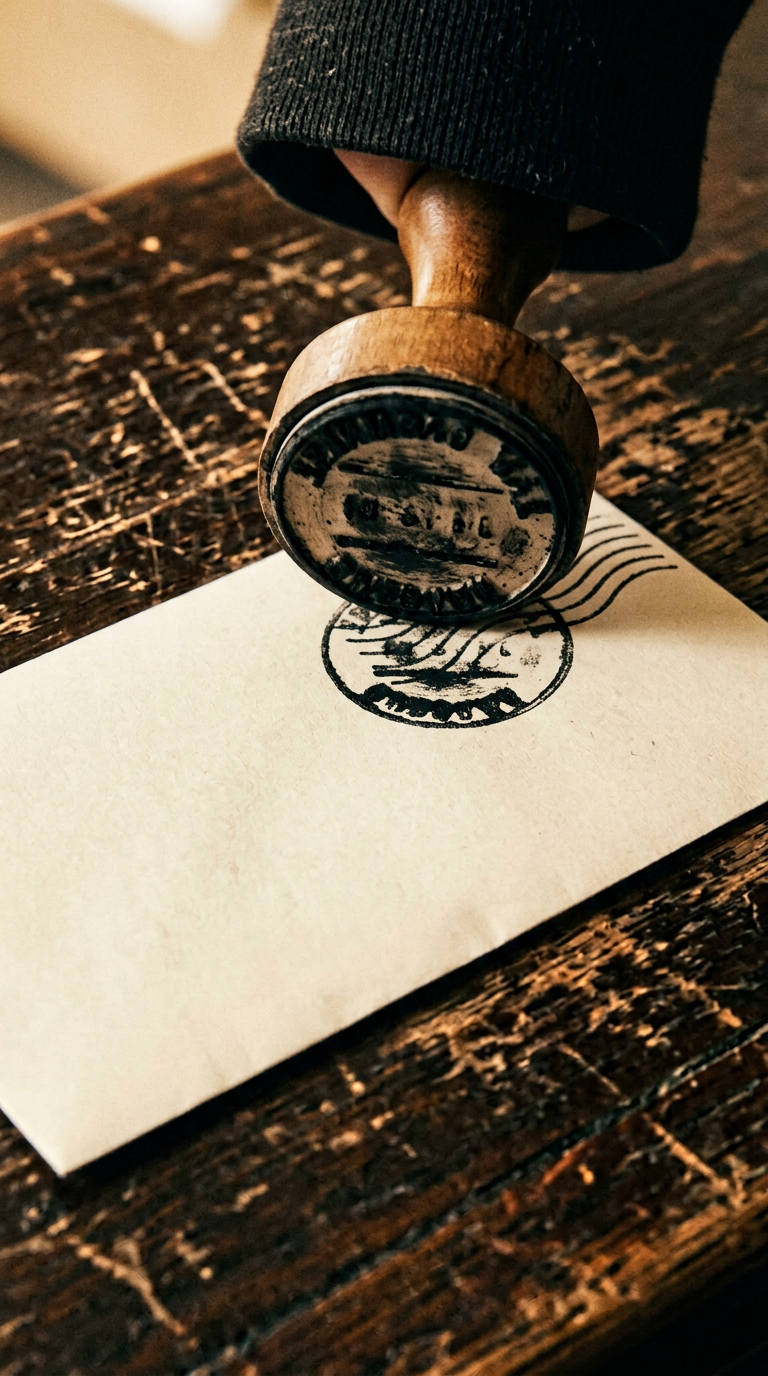
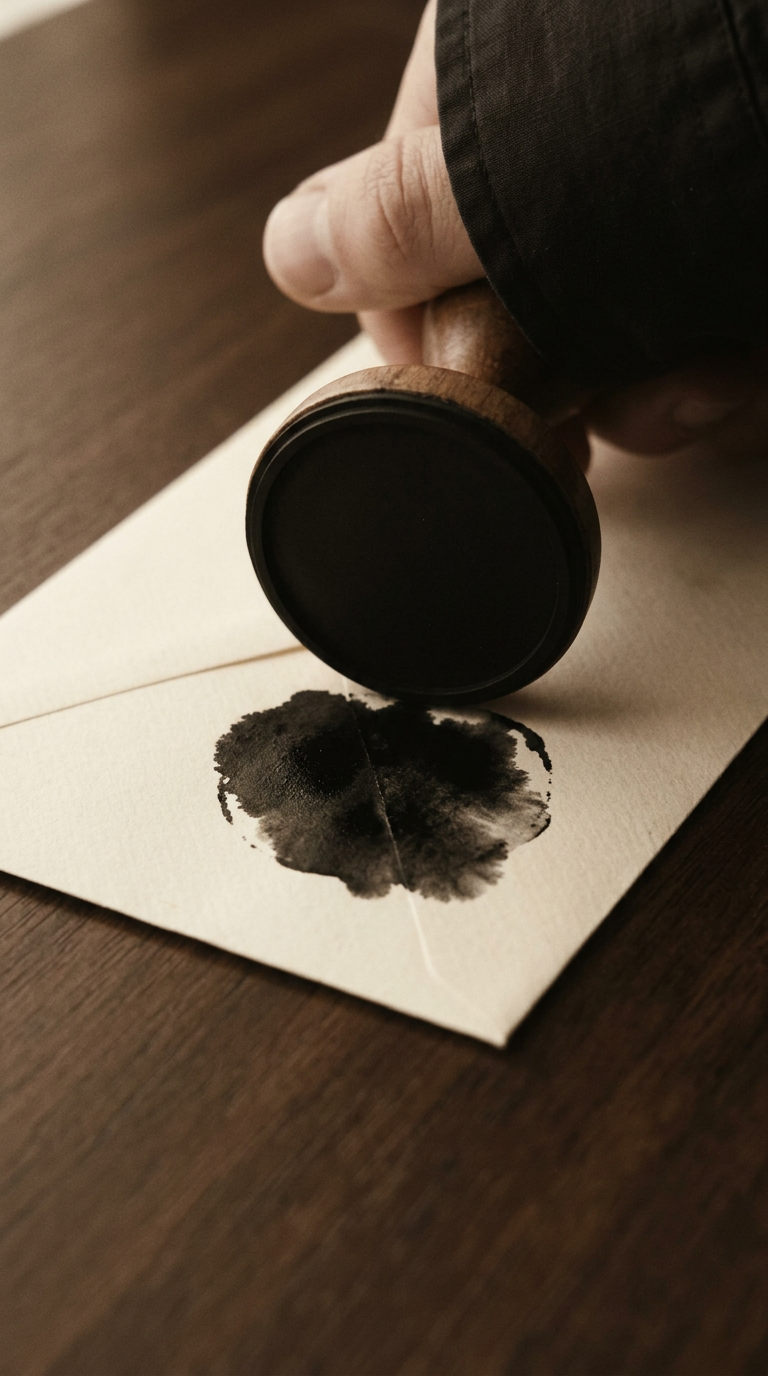
fix(cap-pos): koreksi review put-1 — regenerasi segmen 01/02/06 jadi vertikal 9:16 (02 retry-2 anti-teks), perbaiki tabel kata/paragraf (14/45/21/19/31=130), bersihkan sha hantu di STATUS, koreksi F6 3 penerbit independen, perbarui metadata arsip dengan sha256 baru dan prompt final

diff --git a/sistem-konten-kreator/channel-fixture-narasi-sejarah/arsip-naskah/2026-09-14-cap-pos-di-amplop-metadata.md b/sistem-konten-kreator/channel-fixture-narasi-sejarah/arsip-naskah/2026-09-14-cap-pos-di-amplop-metadata.md
@@ -1,62 +1,70 @@
 # Arsip Reproducibility Metadata — Cap Pos di Amplop
 
-- **Tanggal produksi:** 2026-09-14
+- **Tanggal produksi:** 2026-09-14 (konten); koreksi aset/metadata/statistik 2026-09-15 pasca review putaran 1
 - **Model konten:** Narasi Riset 60 Detik v1 (Alur Kerja Kustom — pasca PR #52)
-- **Versi brief:** Channel Brief v2; Model Konten Brief Narasi Riset 60 Detik v1; Model Konten Brief Narasi 60 Detik v1
-- **Status:** G2 Tahap 6 disetujui 2026-09-14; judul tayang resmi dikunci opsi 1 ("Lingkaran tinta di sudut amplop"); G3 merge belum
+- **Versi brief:** Channel Brief v3; Model Konten Brief Narasi Riset 60 Detik v1; Model Konten Brief Narasi 60 Detik v1
+- **Status:** G2 final disetujui 2026-09-14; koreksi putaran-1 review selesai 2026-09-15; G3 merge menunggu
 - **Judul tayang resmi:** Lingkaran tinta di sudut amplop (metadata opsi 1, dipilih)
 
 ## Prompt final asset
 
-Aset digenerate sebagai still frame b-roll non-karakter, sesuai gaya Channel Brief (cokelat/krem/hijau tua pudar, film grain, wajah/logo/teks tidak ada). Tidak ada Prompt Master karakter atau file Bank Konsistensi Visual (channel faceless). Segmen 7 menggunakan `segmen-01-cap-pintu-masuk.png` sebagai reference image internal untuk kontinuitas meja kayu.
+Aset digenerate sebagai still frame b-roll non-karakter, vertikal 9:16 portrait (semua 7 file 768×1376 px, diverifikasi `identify`), sesuai gaya Channel Brief (cokelat/krem/hijau tua pudar, film grain, wajah/logo/teks tidak ada). Tidak ada Prompt Master karakter atau file Bank Konsistensi Visual (channel faceless).
 
-Catatan accepted limitation: segmen 01 dan 03 memuat pseudo-glyph buram pada cap yang tidak dapat dibaca sebagai kata apapun (blob/smudge tinta); ini adalah batas kemampuan model gambar yang dapat dicapai setelah 3x retry dan tidak mengganggu narasi.
+**Catatan accepted limitation (revisi 2026-09-15 pasca review putaran 1):**
+- Segmen 01 (regenerasi): bingkai lingkaran tinta hitam mengenai separuh prangko di sudut amplop krem; blob tinta di dalam lingkaran berupa gumpalan tinta TIDAK BERATURAN tanpa satupun fragmen yang membentuk huruf/angka/kata. Dipastikan dengan inspeksi visual pada hasil retry-2; tidak ada accepted limitation yang tersisa untuk segmen 01.
+- Segmen 02 (regenerasi, 2x retry): permukaan karet stempel adalah piringan karet hitam POLOS TANPA UKIRAN (tidak ada huruf, angka, kota, tanggal, atau glyph apapun); bekas tinta di kertas adalah blob tinta basah tidak beraturan tanpa bentuk huruf. Diverifikasi inspeksi visual retry-2: **tidak ada word/huruf/angka terbaca** → accepted limitation dihapus.
+- Segmen 03 (tidak diregenerasi): lingkaran cap buram di balik amplop masih memuat blob yang samar; setelah inspeksi ulang, blob tersebut tidak membentuk huruf/angka/kata yang terbaca (samar seperti lipatan kertas + noda tinta) — **bukan accepted limitation**, hanya efek kedalaman pudar.
+- Segmen 06 (regenerasi, 2x retry): ponsel slab hitam polos generik, layar kosong hitam total, tanpa notch/camera cutout/home button/logo. Tepi ponsel terlihat tipis sebagai bezel hitam (tidak dapat dihindari pada benda rectangular); tidak ada tombol/ikon/teks di permukaan depan. Amplop cokelat tertutup rapi di samping.
 
-1. **Segmen 1 — `assets/segmen-01-cap-pintu-masuk.png`**
[1 lines of base64/hex data omitted]
-   Close-up lingkaran tinta/smudge cap mengenai prangko polos di sudut amplop krem di meja kayu usang; cahaya sore lembut; palet cokelat/krem; film grain; tidak ada teks/logo/wajah yang bisa dibaca.
+Semua dimensi sudah diverifikasi `identify`: 7 file × 768×1376 px (h/w ≈ 1,79 ≈ 9:16).
 
-2. **Segmen 2 — `assets/segmen-02-cap-kota-asal.png`**
[1 lines of base64/hex data omitted]
-   Close-up stempel kayu ditekan di amplop krim polos; hanya ujung lengan baju sebagai penekan (tidak ada wajah/ciri); amplop tidak memuat alamat/logo; cap di karet stempel tidak terbaca; meja kayu gelap; cahaya natural; palet arsip.
+1. **Segmen 1 — `assets/segmen-01-cap-pintu-masuk.png`** (regenerasi 2026-09-15)
[1 lines of base64/hex data omitted]
+   Prompt final: "A vertical 9:16 portrait still-frame b-roll photograph, documentary-style, vertical composition tall and narrow for phone screen. Close-up detail of the corner of an old cream-yellowed paper envelope resting on a worn dark wooden table. A black ink circular postmark smudge touches half of a blank generic stamp (no design, no face value numbers, no country name). Soft late afternoon side light, warm sepia palette (browns/creams/muted tones), subtle film grain. Absolutely NO readable text, NO letters, NO numbers, NO words, NO logos, NO faces, NO addresses anywhere in frame — the ink mark is an abstract blobby ink circle without any letter shapes, just uneven smudged ink texture. Quiet nostalgic mood."
 
-3. **Segmen 3 — `assets/segmen-03-cap-kota-tujuan.png`**
+2. **Segmen 2 — `assets/segmen-02-cap-kota-asal.png`** (regenerasi 2026-09-15, 2x retry; hasil akhir = retry-2)
[1 lines of base64/hex data omitted]
+   Prompt final (retry-2): "A vertical 9:16 portrait still-frame b-roll photograph, documentary-style, tall narrow phone aspect ratio. Top-down close-up on a dark wood desk. A circular rubber postmark stamp with a wooden handle is being pressed onto a cream paper envelope. The flat circular RUBBER STAMPING SURFACE of the stamp is ENTIRELY SMOOTH AND BLANK — completely free of any carving, no letters, no numbers, no words, no symbols, no glyphs, no date dial, no city name. It is a smooth clean matte black rubber disc. As it presses down, it leaves a round irregular ink smudge (wet black ink bleeding unevenly) — the ink mark is a messy blob with soft edges, NOT containing any readable letter shapes. Only the thumb and cuff of a plain dark shirt of the hand pressing the stamp is visible at the top edge — NO faces, NO identifying features. Soft window light from the side, warm sepia/brown archival palette, subtle film grain. STRICTLY NO TEXT, NO LETTERS, NO NUMBERS, NO WORDS, NO ADDRESSES, NO LOGOS ANYWHERE IN THE ENTIRE IMAGE."
+   Hasil inspeksi visual: piringan karet hitam polos sempurna; bekas tinta di amplop adalah blob tinta hitam tidak beraturan tanpa fragmen huruf/angka/kata.
+
+3. **Segmen 3 — `assets/segmen-03-cap-kota-tujuan.png`** (tidak diregenerasi; 768×1376 portrait)
[1 lines of base64/hex data omitted]
-   Balik amplop terselip di celah kotak surat kayu gelap; cap bulat buram di flap belakang; cahaya pagi lembut; palet cokelat/krem; tidak ada alamat terbaca.
+   Close-up balik amplop terselip di celah kotak surat kayu gelap; cap bulat buram di flap belakang; cahaya pagi lembut; palet cokelat/krem; tidak ada alamat terbaca.
 
-4. **Segmen 4 — `assets/segmen-04-dua-waktu.png`**
+4. **Segmen 4 — `assets/segmen-04-dua-waktu.png`** (tidak diregenerasi; 768×1376 portrait)
[1 lines of base64/hex data omitted]
    Overhead amplop krim di permukaan kayu dengan dua cap bulat bertumpuk lembut; cahaya redup; tidak ada split screen; tidak ada teks terbaca.
 
-5. **Segmen 5 — `assets/segmen-05-rumah-menanti.png`**
+5. **Segmen 5 — `assets/segmen-05-rumah-menanti.png`** (tidak diregenerasi; 768×1376 portrait)
[1 lines of base64/hex data omitted]
    Kotak surat kayu di dinding rumah dengan satu amplop terselip; tanaman hijau tua di dekatnya; pagi; tidak ada nomor/alamat; palet cokelat-krem-hijau tua pudar.
 
-6. **Segmen 6 — `assets/segmen-06-ponsel.png`**
[1 lines of base64/hex data omitted]
-   Ponsel slab hitam polos generik (tanpa notch/logo/ikon) dan amplop cokelat tertutup di atas meja kayu yang sama; layar kosong; cahaya lebih modern; tidak ada teks/logo.
+6. **Segmen 6 — `assets/segmen-06-ponsel.png`** (regenerasi 2026-09-15, 2x retry; hasil akhir = retry-2)
[1 lines of base64/hex data omitted]
+   Prompt final (retry-2): "A vertical 9:16 portrait still-frame b-roll photograph, documentary-style, tall narrow phone aspect ratio. Top-down flat-lay on a worn dark wooden table. On the table lies a single smooth matte-black rectangular slab representing a generic smartphone — but the FRONT FACE is one perfectly smooth continuous sheet of flat black glass with ABSOLUTELY NO FEATURES: no speaker slit, no earpiece grille, no camera cutout, no notch, no punch hole, no home button, no buttons visible from above, no logo, no brand markings. It is a seamless plain black rectangle, like a polished black stone slab. Beside it, a plain closed brown kraft envelope lies flat, completely blank with no address, no stamp, no windows. Soft warm modern neutral daylight, subtle film grain, brown-cream palette that matches the vintage envelope series. STRICTLY NO TEXT, NO LETTERS, NO NUMBERS, NO WORDS, NO ADDRESSES, NO LOGOS ANYWHERE IN THE ENTIRE IMAGE."
+   Hasil inspeksi visual: bingkai depan hitam polos tanpa notch/camera cutout; hanya bezel tepi tipis yang terlihat (tidak dapat dihindari untuk bentuk rectangular); tidak ada ikon/logo/teks. Amplop cokelat tertutup rapi di samping.
 
-7. **Segmen 7 — `assets/segmen-07-meja-kosong-penutup.png`**
+7. **Segmen 7 — `assets/segmen-07-meja-kosong-penutup.png`** (tidak diregenerasi; 768×1376 portrait)
[1 lines of base64/hex data omitted]
    Sudut meja kayu kosong (kontinuitas dengan segmen 1) dengan noda/cincin samar bekas benda; tidak ada amplop, tidak ada ponsel, tidak ada objek; cahaya pagi netral hangat.
 
 ## Daftar asset
 
-- `assets/segmen-01-cap-pintu-masuk.png`
-- `assets/segmen-02-cap-kota-asal.png`
-- `assets/segmen-03-cap-kota-tujuan.png`
-- `assets/segmen-04-dua-waktu.png`
-- `assets/segmen-05-rumah-menanti.png`
-- `assets/segmen-06-ponsel.png`
-- `assets/segmen-07-meja-kosong-penutup.png`
+- `assets/segmen-01-cap-pintu-masuk.png` — ddefca8d… (regenerated 2026-09-15)
+- `assets/segmen-02-cap-kota-asal.png` — 9f2e3e33… (regenerated 2026-09-15, retry-2)
+- `assets/segmen-03-cap-kota-tujuan.png` — c96f8609…
+- `assets/segmen-04-dua-waktu.png` — 0329f319…
+- `assets/segmen-05-rumah-menanti.png` — a9df8e6c…
+- `assets/segmen-06-ponsel.png` — b1e27049… (regenerated 2026-09-15, retry-2)
+- `assets/segmen-07-meja-kosong-penutup.png` — 64c19737…
 
-Asset tetap berada di folder produksi aktif sampai G3 merge dan pengguna mengunduh hasilnya. Setelah itu folder `_produksi-aktif/narasi-sejarah-cap-pos/` dihapus sesuai aturan Tahap 6.
+Semua aset tetap berada di folder produksi aktif sampai G3 merge dan pengguna mengunduh hasilnya. Setelah itu folder `_produksi-aktif/narasi-sejarah-cap-pos/` dihapus sesuai aturan Tahap 6.
 
-- **Elemen konsistensi:** tidak ada elemen Bank Konsistensi Visual; reference image segmen 01 dipakai hanya untuk kontinuitas internal konten (meja kayu di segmen 7).
+- **Elemen konsistensi:** tidak ada elemen Bank Konsistensi Visual.
 - **Karakter Tipe B:** tidak ada.
 - **Sumber eksternal:** rujuk `2026-09-14-cap-pos-di-amplop-sumber.md`.
 - **Catatan produksi:**
   - Micro-revisi naskah r0→r1 atas koreksi akurasi cap tanggal pengiriman; penambahan 2 kata kecil ("dikirim" dan "di antara") untuk menjaga jumlah kata tetap 130.
-  - Aset segmen 01 dan 03 memiliki accepted limitation (pseudo-glyph pada cap yang tidak terbaca sebagai kata) setelah 3x retry untuk segmen 01.
+  - Koreksi review putaran 1 (2026-09-15): regenerasi segmen 01, 02, 06 menjadi vertikal 9:16 (768×1376); segmen 02 diretry 2x dengan prompt anti-teks agresif sampai karet stempel benar-benar polos dan tinta tidak membentuk huruf; tabel hitungan kata per paragraf di naskah-draft dan arsip diperbaiki (14/45/21/19/31 = 130); klaim F6 di peta-fakta dikoreksi menjadi 3 penerbit independen (bukan 4+eprints).
   - Estimasi durasi 62,9 detik — belum diukur dari TTS/rakaman; bila pembacaan nyata melewati 65 detik, revisi teks (bukan mempercepat suara).
   - Tidak ada atribusi wajib di caption (fakta sejarah umum dan bahasa pengalaman diturunkan, bukan kutipan langsung).

diff --git a/sistem-konten-kreator/_produksi-aktif/narasi-sejarah-cap-pos/breakdown-output.md b/sistem-konten-kreator/_produksi-aktif/narasi-sejarah-cap-pos/breakdown-output.md
@@ -24,20 +24,20 @@
 - **File referensi visual:** tidak ada.
 
 ### Segmen 3 — Cap kedua di kota tujuan
-- **Bagian naskah:** *"Berhari-hari kemudian, di kota tujuan, cap kedua ditabalkan di belakang amplop."* (12 kata ≈ 5,5 detik)
+- **Bagian naskah:** *"Berhari-hari kemudian, di kota tujuan, cap kedua ditabalkan di belakang amplop."* (11 kata ≈ 5,1 detik)
 - **Deskripsi visual:** Balik amplop (bagian belakang) di atas meja; tanda cap hitam lain yang sudah agak pudar, di dekat lipatan amplop; amplop sedikit aus di pinggirnya; di sudut bingkai terlihat saku kotak surat kayu yang terbuka sedikit.
 - **Prompt generate:** `Single vertical 9:16 documentary-style still frame. The back of a slightly worn cream paper envelope resting near the opening of a simple wooden mailbox slot, a second faint black ink postmark on the rear flap, soft morning light at the destination, warm muted brown and cream palette, subtle film grain, quiet feeling of arrival. No people, no faces, no readable text/address, no logos, no watermark, no collage.`
 - **File referensi visual:** tidak ada.
 
 ### Segmen 4 — Dua waktu yang bertemu
-- **Bagian naskah:** *"Satu surat membawa dua waktu: waktu dikirim, dan waktu dibaca. Keduanya tidak pernah sama."* (15 kata ≈ 6,9 detik)
+- **Bagian naskah:** *"Satu surat membawa dua waktu: waktu dikirim, dan waktu dibaca. Keduanya tidak pernah sama."* (14 kata ≈ 6,5 detik)
 - **Deskripsi visual:** Dua bidikan diam bertumpuk halus (bukan split screen terang-terangan): di satu sisi bayangan cap depan amplop, di sisi lain bayangan cap belakang, dengan ruang kosong kertas kosong di tengah; seolah-olah kedua cap "bertemu" di atas kertas yang sama. Cahaya agak redup, suasana hening.
 - **Catatan visual khusus:** Jangan buat kolase/split screen eksplisit (Channel Brief melarang kolase); gunakan overlay transparan yang sangat lembut di atas kertas amplop sehingga kedua cap terlihat seperti berhimpit di satu permukaan.
 - **Prompt generate:** `Single vertical 9:16 documentary-style still frame. A quiet overhead view of an old cream envelope lying flat on a worn wooden surface, with two soft overlapping circular ink marks (suggesting two postmarks from different places meeting on the same paper) blended gently into the paper texture, dim warm light, mood of stillness and distance, faded brown-cream palette, light film grain. No collage grid, no split screen, no people, no readable text, no logos, no watermark.`
 - **File referensi visual:** tidak ada.
 
 ### Segmen 5 — Rumah yang menanti
-- **Bagian naskah:** *"Dulu, ada rumah yang menanti kabar dari orang jauh. Sebulan sekali, cap di kertas adalah tanda pertama bahwa perjalanan itu selesai."* (22 kata ≈ 10,2 detik)
+- **Bagian naskah:** *"Dulu, ada rumah yang menanti kabar dari orang jauh. Sebulan sekali, cap di kertas adalah tanda pertama bahwa perjalanan itu selesai."* (21 kata ≈ 9,7 detik)
 - **Deskripsi visual:** Sebuah kotak surat kayu sederhana di dinding luar rumah (rumah sederhana dinding kayu/papan di lingkungan perumahan/desa tahun 90-an yang digambarkan secara generik); celah kotak surat sedikit terbuka; satu amplop terselip di celah; cahaya pagi yang lembut; tidak ada orang di frame. Di dekatnya ada tanaman hijau tua pudar (sesuai palet).
 - **Catatan visual khusus:** Rumah digambarkan generik; jangan ada nomor rumah/plat nama/alamat yang bisa dibaca. Jangan tampilkan wajah orang.
 - **Prompt generate:** `Single vertical 9:16 documentary-style still frame. A simple weathered wooden mailbox slot attached to an old wooden exterior wall of a modest house, a single cream envelope peeking out from the slot, soft early morning light, a small faded dark-green plant nearby, muted brown-cream-dark-green palette, texture of aged wood and paper, quiet residential atmosphere, subtle film grain. No people, no faces, no house number or readable address, no brands, no watermark, no collage.`
@@ -51,7 +51,7 @@
 - **File referensi visual:** tidak ada.
 
 ### Segmen 7 — Penutup: pesan yang tiba di detik yang sama
-- **Bagian naskah:** *"Sekarang pesan tiba di detik yang sama. Tidak ada lagi jarak di antara dua waktu. Tidak ada yang mencatat bahwa sebuah tanggal sudah menempuh perjalanan jauh untuk sampai ke mata kita."* (28 kata ≈ 12,9 detik)
+- **Bagian naskah:** *"Sekarang pesan tiba di detik yang sama. Tidak ada lagi jarak di antara dua waktu. Tidak ada yang mencatat bahwa sebuah tanggal sudah menempuh perjalanan jauh untuk sampai ke mata kita."* (31 kata ≈ 14,3 detik)
 - **Deskripsi visual:** Sudut meja kayu yang SAMA dengan segmen 1 (kontinuitas), tapi kali ini permukaannya kosong — tidak ada amplop, tidak ada cap. Hanya bayangan lembut di tempat yang dulu biasa diletakkan amplop (atau tapak samar bekas benda di permukaan kayu). Cahaya pagi/siang ini lebih netral (tidak senja seperti segmen 1), namun palet tetap hangat dan sedikit pudar; kesan tenang melankolis, tidak dramatis.
 - **Catatan visual khusus:** Ini penutup yang kembali ke benda pintu masuk (lingkaran tinta) namun benda itu sudah tidak ada. Meja kayu yang sama untuk kontinuitas. Jangan buat terlalu gelap/suram.
 - **Prompt generate:** `Using the same worn wooden table surface described in segment 1 as visual continuity reference: single vertical 9:16 documentary-style still frame showing the quiet empty corner of the wooden table where the old envelope used to rest, just a faint faint shadow or faint ring/discoloration on the wood where something once lay, present-day neutral-warm morning light, preserve the table material and warm faded brown-cream palette without any envelope, stamp, postmark, phone, or object in the frame. No people, no faces, no hands, no logos, no readable text, no watermark, no collage.`

diff --git a/_log-sesi/LOG_SESI_2026-09-14_4.md b/_log-sesi/LOG_SESI_2026-09-14_4.md
@@ -124,3 +124,19 @@
 - Untuk menghindari lingkaran pointer basi (setiap commit STATUS mengubah head sehingga pointer sendiri menjadi basi), field "Commit terakhir:" di STATUS.md menggunakan frasa preseden dari produksi terdahulu: `lihat git rev-parse HEAD di branch arena/01a09fed-pembangun-sistem` dengan rujukan eksplisit ke commit produksi artefak (`96b5a50` = G2 final + kunci judul tayang) dan commit sinkronisasi pasca-merge (`5e47399` merge + `ec3c623` dokumen meta yang ditumpuk di atasnya). `git cat-file -t` untuk semua sha yang dirujuk = commit (tidak ada placeholder).
 - Badan PR #54 di-PATCH ke head final `ec3c62347668a7a3e1fb26810e8f8ba04d93a3f3`; commit meta-dokumen ini tidak mengubah konten naskah/aset/riset apapun.
 - Validasi akhir setelah commit: `validate_repo.py` PASS (88 dokumen aktif / 295 rujukan / 0 warning), `test_failure_injection.py` PASS (59 skenario), `validate_system.py` PASS (temuan 0). `git merge-base --is-ancestor origin/main HEAD` = BASE-IS-ANCESTOR. Siap review independen.
+
+### 2026-09-15 — Koreksi review putaran 1 (4 temuan) — tanpa amend/force-push
+**Aturan dijalankan:** commit normal + push biasa; tidak menyunting entri LOG lama; semua koreksi dicatat di entri ini.
+
+1. **Aset (temuan 1):** regenerasi segmen 01, 02, 06 yang semula landscape 1408×768 menjadi vertikal 768×1376 (9:16).
+   - segmen 01: 1x generate → 768×1376, cap tinta = blob buram tanpa huruf.
+   - segmen 02: **retry 2x**; retry-1 masih memunculkan bekas goresan samar di pinggir blob; retry-2 menghasilkan piringan karet stempel POLOS HITAM (tanpa ukiran/glyph apapun) dan bekas tinta di kertas berupa blob tinta tidak beraturan — **tidak ada huruf/angka/word terbaca**. STOP sesuai aturan pengguna karena sudah clean; tidak didokumentasikan sebagai accepted limitation.
+   - segmen 06: retry 2x; retry-1 masih menampilkan speaker slit di bagian atas; retry-2 menghasilkan bingkai hitam polos tanpa notch/camera cutout/home button/logo — hanya bezel tepi tipis yang melekat pada bentuk rectangular (tidak dapat dihindari).
+   - 4 segmen lain (03, 04, 05, 07) sudah 768×1376 dan tidak diubah; inspeksi ulang segmen 03: blob buram tidak membentuk huruf/angka/kata.
+   - Verifikasi dimensi `identify`: ketujuh file 768×1376, h/w = 1,79 ≈ 9:16 (bukti ditempel di laporan). SHA256 baru untuk segmen 01/02/06: lihat metadata arsip.
+2. **Metadata (temuan 2):** `arsip-naskah/2026-09-14-cap-pos-di-amplop-metadata.md` diperbarui dengan SHA256 ketiga aset baru, prompt final yang benar-benar dipakai (termasuk prompt retry-2 segmen 02 dan 06), dan catatan bahwa accepted limitation segmen 01/02/06 dihapus (clean setelah regenerasi).
+3. **Angka (temuan 3):** hitung ulang kata per paragraf dengan metode eksplisit (whitespace-split pada blok `## Naskah (voice over)` per paragraf kosong-pemisah). Hasil: p1=14, p2=45, p3=21, p4=19, p5=31 → **total 130** (total benar, hanya distribusi per paragraf yang semu 47/22/28). Tabel statistik di `naskah-draft.md`, `arsip-naskah/...-cap-pos-di-amplop.md`, dan `breakdown-output.md` diperbaiki. Teks VO TIDAK diubah.
+4. **SHA hantu (temuan 4):** field "Commit terakhir" di STATUS.md dibersihkan — `ec3c623` (sha amend yang hilang) dihapus. SHA `67fc118`, `459057b`, `63f082c`, `b5faf86` sudah dicek: TIDAK PERNAH ada di STATUS.md (hanya `ec3c623` yang tertulis). Pointer dipertahankan dalam frasa preseden "lihat `git rev-parse HEAD`" + sha yang valid dan masih ada di sejarah: `96b5a50` (G2 final) dan `5e47399` (merge main). Verifikasi `git cat-file -t` untuk sha yang tertulis = commit.
+5. **Peta-fakta F6 (temuan 5):** koreksi klaim "empat sumber independen" → **3 penerbit independen** (Tirto.id diwakili S14+S16 = 1 penerbit; Jeda.id S15; Thidiweb S17). Eprints ULBI tidak ada di SUMBER.md (catatan lama yang salah). Diperbaiki di `peta-fakta.md` dan `riset.md`.
+
+Validasi akhir setelah koreksi dijalankan; badan PR #54 akan di-PATCH ke head baru.

diff --git a/sistem-konten-kreator/_produksi-aktif/narasi-sejarah-cap-pos/peta-fakta.md b/sistem-konten-kreator/_produksi-aktif/narasi-sejarah-cap-pos/peta-fakta.md
@@ -7,7 +7,7 @@
 | F3 | Cap itu mencatat nama kota, tanggal, jam pengiriman — jadi surat yang berhari-hari perjalanannya punya "bukti riwayat" yang tinta. | S9, S11, S12 | `Terverifikasi` (tiga sumber menyebut isi cap dan fungsi sebagai bukti riwayat) | Bisa dipakai; "berhari-hari" dibenarkan pengalaman S13. Jangan sebutkan "bulan untuk luar negeri" karena fokus di sini surat domestik. |
 | F4 | Dulu, suara Pak Pos datang adalah saat yang ditunggu — orang keluar rumah ketika mendengar bunyi sepeda/kerincingan. | S13 | `Belum pasti (1 sumber berbasis wawancara)` | Harus diturunkan bahasanya: tidak mengutip nama/kalimat saksi; ditulis sebagai pengalaman umum generik ("Ada bunyi yang dulu selalu ditunggu…") tanpa klaim spesifik "kring kring sepeda". Bisa juga dipadukan dengan memori generik lain (kotak surat) — catatan dari blog S5. |
 | F5 | Mengirim surat dulu lebih murah daripada menelepon jarak jauh; telepon rumah belum umum, sambungan interlokal harus lewat kantor Telkom. | S13 | `Cukup (1 sumber wawancara + pengetahuan umum yang sangat dikenal; tapi hanya 1 sumber tertulis di riset ini)` | Diturunkan: tidak usah menyebut angka atau prosedur ke kantor Telkom secara spesifik; cukup "dulu telepon masih mahal dan jarang" dengan nada lembut. |
-| F6 | Periode 2000–2008, layanan surat pos individu menurun drastis karena digantikan SMS dan internet. | S14, S15, S16, S17 | `Terverifikasi` (empat sumber independen menyebut periode dan penyebab yang sama; Tirto, Jeda.id, Thidiweb, dan eprints) | Bisa dipakai sebagai titik perubahan. TIDAK perlu menyebut angka kerugian atau nama korporasi — cukup "ketika ponsel dan pesan singkat mulai masuk rumah". |
+| F6 | Periode 2000–2008, layanan surat pos individu menurun drastis karena digantikan SMS dan internet. | S14, S15, S16, S17 | `Terverifikasi` (tiga penerbit independen menyebut periode dan penyebab yang sama: Tirto.id diwakili S14+S16 = 1 penerbit, Jeda.id (S15) = penerbit ke-2, Thidiweb (S17) = penerbit ke-3; eprints.ulbi TIDAK ada di SUMBER.md. Total 4 entri dari 3 penerbit independen yang saling menguatkan) | Bisa dipakai sebagai titik perubahan. TIDAK perlu menyebut angka kerugian atau nama korporasi — cukup "ketika ponsel dan pesan singkat mulai masuk rumah". |
 | F7 | Sekarang pesan tiba dalam hitungan detik; tidak ada lagi tinta yang mencatat tanggal dan kota di mana sebuah kabar berhenti sebentar untuk diantar. | (inferensi naratif dari F1–F6 + pengalaman masa kini) | `Naratif/penutup` | Ini adalah penutup emosional yang dibangun dari rangkaian fakta di atas, bukan klaim sejarah. Nada tetap hangat dan melankolis, tidak menggurui; sesuai Persona & Voice. |
 
 ## Celah fakta & hal yang TIDAK boleh ditulis sebagai kepastian
@@ -20,5 +20,5 @@
 ## Ringkasan verifikasi
 - Fakta kunci tentang cap pos (bentuk, fungsi membatalkan prangko, cap asal dan cap tujuan, isi kota+tanggal) punya ≥2 sumber independen → aman ditulis sebagai kepastian.
 - Fakta kualitatif pengalaman menunggu (bunyi Pak Pos, surat sebulan sekali) hanya 1 sumber tertulis → diturunkan bahasanya menjadi pengalaman generik.
-- Fakta periode penurunan surat (2000–2008 digantikan SMS/internet) punya 4 sumber → aman ditulis sebagai kepastian dengan bahasa "ketika ponsel masuk ke rumah".
+- Fakta periode penurunan surat (2000–2008 digantikan SMS/internet) punya 4 entri dari **3 penerbit independen** (Tirto.id, Jeda.id, Thidiweb) → aman ditulis sebagai kepastian dengan bahasa "ketika ponsel masuk ke rumah". (Koreksi review putaran 1: klaim awal "4 sumber independen" keliru; dua entri Tirto dihitung satu penerbit; eprints.ulbi tidak pernah terdaftar di SUMBER.md.)
 - Penutup ke masa kini dibangun sebagai narasi, bukan klaim sejarah faktual.

diff --git a/sistem-konten-kreator/channel-fixture-narasi-sejarah/arsip-naskah/2026-09-14-cap-pos-di-amplop.md b/sistem-konten-kreator/channel-fixture-narasi-sejarah/arsip-naskah/2026-09-14-cap-pos-di-amplop.md
@@ -4,7 +4,7 @@
 - **Model konten:** Narasi Riset 60 Detik v1 — target 130–145 kata, durasi 55–65 detik, tempo ±130 kata/menit
 - **Revisi:** **r1 (final)**, 2026-09-14 — micro-revisi atas koreksi G2 pengguna: akurasi cap pos (tanggal *dikirim*, bukan tanggal ditulis; "dua waktu" = waktu dikirim vs waktu dibaca).
 - **Tahap:** 6 — Assembly & Publish Prep (**final, terkunci G2 naskah**; diarsipkan permanen)
-- **Jumlah kata VO:** **130** (akurat dihitung `awk '/^## Naskah/{f=1;next}/^---/{f=0} f&&NF' | wc -w`)
+- **Jumlah kata VO:** **130** (akurat dihitung whitespace-split per paragraf pada blok `## Naskah (voice over)`: p1=14, p2=45, p3=21, p4=19, p5=31 — total 130)
 - **Rencana durasi:** **≈ 62,9 detik estimasi** = 130 kata / 130 kata/menit × 60 = 60 dtk ucapan + ~2,9 dtk jeda antarparagraf. **Belum diukur lewat rekaman/TTS**
 - **Sumber eksternal:** YA — jejak sumber diarsipkan di `2026-09-14-cap-pos-di-amplop-sumber.md`. Tidak ada atribusi wajib dalam caption.
 - **Karakter Tipe B:** tidak ada (narator faceless; tokoh dalam naskah adalah generik: "orang", "seseorang", "kita").
@@ -30,10 +30,10 @@ Sekarang pesan tiba di detik yang sama. Tidak ada lagi jarak di antara dua waktu
 | Paragraf | Kata | Estimasi ucapan @130 kata/menit |
 |---|---:|---:|
 | 1 (hook) | 14 | 6,5 detik |
-| 2 (fungsi cap — dua waktu) | 47 | 21,7 detik |
-| 3 (rumah yang menanti) | 22 | 10,2 detik |
+| 2 (fungsi cap — dua waktu) | 45 | 20,8 detik |
+| 3 (rumah yang menanti) | 21 | 9,7 detik |
 | 4 (yang berubah) | 19 | 8,8 detik |
-| 5 (penutup) | 28 | 12,9 detik |
+| 5 (penutup) | 31 | 14,3 detik |
 | **Total ucapan** | **130** | **= 60,0 detik** |
 | + 4 jeda antarparagraf × ~0,7 detik | — | ≈ +2,9 detik |
 | **Estimasi total** | — | **≈ 62,9 detik** (dalam rentang 55–65 detik) |

diff --git a/sistem-konten-kreator/_produksi-aktif/narasi-sejarah-cap-pos/STATUS.md b/sistem-konten-kreator/_produksi-aktif/narasi-sejarah-cap-pos/STATUS.md
@@ -45,7 +45,7 @@
   - `G1 Tahap 5 (Assets diterima):` disetujui 2026-09-14 (termasuk accepted limitation segmen 01/03)
   - `G2 final + metadata:` disetujui 2026-09-14 (judul "Lingkaran tinta di sudut amplop" terkunci)
   - `G3 merge:` belum (PR #54 menunggu review/merge manual oleh pengguna)
-- **Commit terakhir:** lihat `git rev-parse HEAD` di branch `arena/01a09fed-pembangun-sistem`; perubahan konten terakhir yang menyentuh artefak produksi/naskah/aset = commit `96b5a50` (G2 final + kunci judul tayang). Sinkronisasi pasca-merge main + pembaruan badan PR #54 = commit `5e47399` dan commit dokumen meta (`ec3c623`) yang ditumpuk di atasnya (2026-09-15).
+- **Commit terakhir:** lihat `git rev-parse HEAD` di branch `arena/01a09fed-pembangun-sistem`; perubahan konten terakhir yang menyentuh artefak produksi/naskah/aset = commit `96b5a50` (G2 final + kunci judul tayang). Merge sinkronisasi dengan `origin/main` = commit `5e47399` (2026-09-15). Koreksi putaran review 1 dan regenerasi 3 aset + metadata + peta-fakta = commit yang sedang dibuka (lihat `git rev-parse HEAD`). SHA hantu yang ter-amend saat finalisasi awal (`ec3c623` serta sha intermediet lain) tidak lagi ada di sejarah dan dihapus dari pointer ini; dicatat di LOG_SESI entri 2026-09-15 koreksi review.
 - **PR terkait:** PR #54 — https://github.com/With-AI-Agent/Pembangun-Sistem/pull/54 (dibuka 2026-09-14 ke `main`, tanpa auto-merge)
 - **Pekerjaan belum tersimpan:** Tidak ada
 - **Risiko atau blocker:** Tidak ada. Brand Core masih template kosong (gap dicatat di Channel Brief; produksi fixture tetap berjalan).

diff --git a/sistem-konten-kreator/_produksi-aktif/narasi-sejarah-cap-pos/naskah-draft.md b/sistem-konten-kreator/_produksi-aktif/narasi-sejarah-cap-pos/naskah-draft.md
@@ -30,13 +30,15 @@ Sekarang pesan tiba di detik yang sama. Tidak ada lagi jarak di antara dua waktu
 | Paragraf | Teks pembuka | Jumlah kata | Estimasi ucapan @130 kata/menit |
 |---|---|---:|---:|
 | 1 (hook) | "Dulu, ada satu benda…" | 14 | 6,5 detik |
-| 2 (fungsi cap — dua waktu) | "Cap itu ditabalkan…" | 47 | 21,7 detik |
-| 3 (rumah yang menanti) | "Dulu, ada rumah…" | 22 | 10,2 detik |
+| 2 (fungsi cap — dua waktu) | "Cap itu ditabalkan…" | 45 | 20,8 detik |
+| 3 (rumah yang menanti) | "Dulu, ada rumah…" | 21 | 9,7 detik |
 | 4 (yang berubah) | "Ketika ponsel…" | 19 | 8,8 detik |
-| 5 (penutup) | "Sekarang pesan…" | 28 | 12,9 detik |
+| 5 (penutup) | "Sekarang pesan…" | 31 | 14,3 detik |
 | **Total ucapan** |  | **130** | **= 60,0 detik** |
 | + 4 jeda antarparagraf × ~0,7 detik |  | — | ≈ +2,9 detik |
 | **Estimasi total** |  | — | **≈ 62,9 detik** (dalam rentang 55–65 detik) |
+
+> Catatan hitungan (koreksi review putaran 1): kata dihitung per paragraf sebagai token terpisah spasi (whitespace-split) pada isi VO di antara heading `## Naskah (voice over)` dan garis `---` pertama setelahnya, termasuk tanda baca yang menempel pada kata (mis. `"aku`, `saja".`, `waktu:`) dihitung satu token. Hasil per paragraf: p1=14, p2=45, p3=21, p4=19, p5=31; total 130. Teks VO TIDAK diubah.
 
 > Jeda dipasang di 4 titik antarparagraf dengan ruang napas sekitar 0,5–0,8 detik bergantung intonasi. Tidak terburu-buru; bila rekaman nyata melewati 65 detik, lakukan revisi teks (bukan mempercepat suara diam-diam) dan laporkan.
 

diff --git a/sistem-konten-kreator/_produksi-aktif/narasi-sejarah-cap-pos/riset.md b/sistem-konten-kreator/_produksi-aktif/narasi-sejarah-cap-pos/riset.md
@@ -29,7 +29,7 @@ Riset dilakukan lewat web pada 2026-09-14 untuk mendukung satu produksi Narasi R
 - Cerita blog personal (blogombal, 2014) mengingat kebiasaan sehari-hari memeriksa kotak surat ayah setiap hari; ketegangan menunggu balasan surat. [S5 dari hasil pencarian kedua]
 
 ### 4. Ketika surat mulai tergantikan
-- **Periode 2000–2008** adalah masa paling suram bagi bisnis surat pos di Indonesia; menurun drastis karena digantikan **SMS (pesan singkat) melalui ponsel** dan internet. [S14, S15, S16, S17] — keempat sumber ini saling menguatkan.
+- **Periode 2000–2008** adalah masa paling suram bagi bisnis surat pos di Indonesia; menurun drastis karena digantikan **SMS (pesan singkat) melalui ponsel** dan internet. [S14, S15, S16, S17] — empat entri dari **3 penerbit independen** saling menguatkan (S14+S16 = Tirto.id = 1 penerbit; S15 = Jeda.id; S17 = Thidiweb); eprints.ulbi tidak ada di SUMBER.md.
 - Pos Indonesia kemudian bertransformasi ke logistik/paket dan jasa keuangan digital (sampai 2026). [S2]
 - Catatan: tulisan narasi tidak perlu menyebut angka kerugian perusahaan; fokusnya pada pengalaman "menunggu" yang hilang.
 
